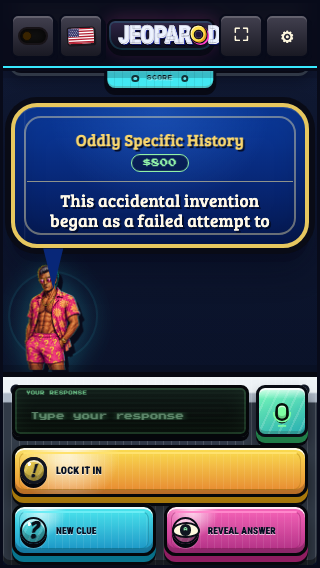
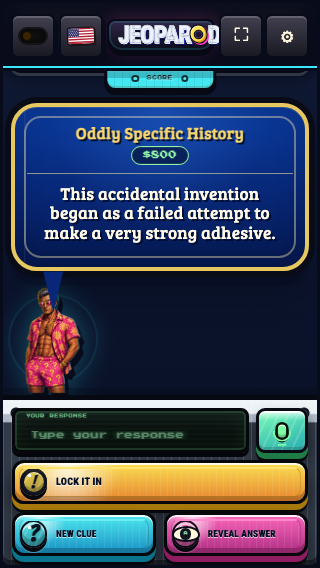
fix: keep short-screen clues and fullscreen notices clear of controls

diff --git a/styles/game/dialogue.css b/styles/game/dialogue.css
@@ -734,6 +734,11 @@ body .game-container .speech-bubble[data-dialogue-style="narration"] .clue-value
     body .game-container .speech-bubble[data-dialogue-style] .clue-value-amount {
         font-size: 0.52rem;
     }
+
+    body .game-container .deep-dive-trigger {
+        top: calc(100% + 0.8rem);
+        bottom: auto;
+    }
 }
 
 @media (orientation: landscape) and (max-height: 560px) {
@@ -748,7 +753,7 @@ body .game-container .speech-bubble[data-dialogue-style="narration"] .clue-value
         margin-right: auto;
         margin-left: 0;
         padding: 2.35rem 1rem 0.65rem;
-        overflow: hidden;
+        overflow: visible;
     }
 
     body .game-container .speech-bubble[data-dialogue-style] #questionBox {
@@ -764,6 +769,13 @@ body .game-container .speech-bubble[data-dialogue-style="narration"] .clue-value
         font-size: clamp(0.92rem, 2.8vw, 1.28rem);
         line-height: 1.08;
     }
+
+    body .game-container .deep-dive-trigger {
+        top: auto;
+        right: auto;
+        bottom: 0.65rem;
+        left: calc(100% + 0.8rem);
+    }
 }
 
 @media (min-width: 761px) and (max-width: 900px) and (min-height: 561px) {
@@ -777,7 +789,7 @@ body .game-container .speech-bubble[data-dialogue-style="narration"] .clue-value
 @media (max-height: 620px) {
     @container cabinet (max-width: 420px) {
         body .game-container .speech-bubble[data-dialogue-style] {
-            padding: 1.5rem 0.72rem 0.7rem;
+            padding: 0.8rem 0.72rem 0.4rem;
         }
 
         body .game-container .speech-bubble[data-dialogue-style] .clue-category {

diff --git a/index.html b/index.html
@@ -293,7 +293,6 @@
 
             <div class="game-container reveal" id="gameContainer" data-game-moment="loading" data-round-phase="idle">
                 <div class="scene-stage" id="sceneStage" aria-hidden="true"></div>
-                <p class="fullscreen-status" id="fullscreenStatus" role="status" aria-live="polite"></p>
                 <header class="header game-header">
                     <div class="title-div">
                         <div class="brand-mark game-mark" data-brand-mark aria-label="JeoPARODY"><span class="brand-base brand-base-before">JEOPAR</span><span class="brand-o" data-brand-o-display data-o-token="intruder"><span class="brand-o-core" aria-hidden="true"></span></span><span class="brand-base brand-base-after">DY</span><span class="brand-bang" aria-hidden="true">!</span></div>
@@ -403,6 +402,7 @@
                 </nav>
 
                 <div class="main-content">
+                    <p class="fullscreen-status" id="fullscreenStatus" role="status" aria-live="polite"></p>
                 <div class="speech-bubble" id="speechBubble" data-dialogue-style="clue-card">
                         <div class="translation-state" id="translationState" data-status="original" hidden>
                             <span class="translation-pulse" aria-hidden="true"></span>

diff --git a/game.html b/game.html
@@ -75,7 +75,6 @@
     <main class="game-page-shell" id="play" aria-label="JeoPARODY standalone game">
         <div class="game-container game-container-standalone" id="gameContainer" data-game-moment="loading" data-round-phase="idle">
             <div class="scene-stage" id="sceneStage" aria-hidden="true"></div>
-            <p class="fullscreen-status" id="fullscreenStatus" role="status" aria-live="polite"></p>
             <header class="header game-header">
                 <div class="title-div">
                     <div class="brand-mark game-mark" data-brand-mark aria-label="JeoPARODY">
@@ -187,6 +186,7 @@
             </nav>
 
             <div class="main-content">
+                <p class="fullscreen-status" id="fullscreenStatus" role="status" aria-live="polite"></p>
                 <div class="speech-bubble" id="speechBubble" data-dialogue-style="clue-card">
                     <div class="translation-state" id="translationState" data-status="original" hidden>
                         <span class="translation-pulse" aria-hidden="true"></span>

diff --git a/src/ui/fullscreen-controller.js b/src/ui/fullscreen-controller.js
@@ -18,7 +18,15 @@
       this.pending = false;
       this.restoreScroll = null;
       this.onToggle = () => this.toggle();
-      this.onFullscreenChange = () => this.sync();
+      this.onFullscreenChange = () => {
+        if (this.getNativeElement()) {
+          // Prefixed requests may return before the native change event arrives.
+          this.fallbackActive = false;
+          this.restoreScroll = null;
+          this.announce('');
+        }
+        this.sync();
+      };
       this.onKeydown = (event) => {
         if (event.key === 'Escape' && this.fallbackActive) this.exit();
       };
@@ -69,7 +77,7 @@
       this.fallbackActive = true;
       this.sync();
       this.window?.scrollTo?.(0, 0);
-      this.announce('Game expanded to fit the browser. This browser keeps its address bar visible. Use Exit expanded view to return.');
+      this.announce('Expanded view: this browser keeps its address bar visible.');
       return true;
     }
 

diff --git a/styles/game/cabinet.css b/styles/game/cabinet.css
@@ -95,9 +95,10 @@
         display: none;
         position: absolute;
         right: 0.8rem;
-        bottom: calc(var(--footer-height) + 0.8rem);
+        bottom: 0.6rem;
         z-index: 60;
         max-width: min(58%, 24rem);
+        margin: 0;
         padding: 0.6rem;
         border-radius: 8px;
         color: #fff8df;
@@ -209,6 +210,11 @@
 
         .game-container .main-content {
             padding: 0.35rem 0.65rem 0.2rem;
+        }
+
+        .game-container .fullscreen-status {
+            max-width: min(32%, 18rem);
+            font-size: 0.7rem;
         }
     }
 

diff --git a/styles/game/controls.css b/styles/game/controls.css
@@ -664,6 +664,18 @@
         .game-container .button-div .cabinet-button .button-tooltip { font-size: 0.59rem; }
     }
 
+    @media (max-height: 620px) and (orientation: portrait) {
+        @container cabinet (max-width: 420px) {
+            .game-container .control-footer {
+                min-height: 164px;
+            }
+
+            .game-container :is(.answer-input, .cabinet-button, .voice-button) {
+                min-height: 44px;
+            }
+        }
+    }
+
 }
 
 @media (prefers-reduced-motion: reduce) {

diff --git a/docs/reviews/MOBILE_REPAIR_2026-10-10.md b/docs/reviews/MOBILE_REPAIR_2026-10-10.md
@@ -34,7 +34,7 @@ interpret “two commits ahead” as safe integration or a complete history audi
   merge-base delta, nor the current two-tree delta. Its exact historical baseline
   is not supplied and cannot be authenticated from the summary.
 - **234 passing tests:** current untouched master has **280 passing tests**.
-  Repair branch has **286**, adding connector/fullscreen regression cases.
+  Repair branch has **287**, adding connector/fullscreen regression cases.
 - **699-line app / 1,027-line renderer:** describes the older docs branch, not
   current master: **723 / 1,213** before this repair. Line count is not a reason
   to undo later behavior.
@@ -74,6 +74,9 @@ Portrait layout reserves space for a 112–148px host; 320×568 uses 88px. Lands
 places the host beside the card, above the controls. On short phones, detailed
 translation and outcome-review panels temporarily use that space for content.
 The host does not cover clue text or answer controls.
+The shortest portrait layout keeps 44px control targets to leave room for the
+complete standard clue. Ask Host sits outside the clue text; landscape allows
+the connector to extend beyond the card instead of clipping it.
 
 Native fullscreen reproduced successfully in desktop Chromium and WebKit on
 the baseline. Unsupported/rejected element fullscreen uses a viewport-filling
@@ -82,6 +85,8 @@ including the embedded source cabinet, adds a visible limitation explanation,
 and uses “Expand game” / “Exit expanded view” labels. It handles capability flags,
 prefixed WebKit requests, ignored/rejected requests, rapid clicks, browser exit
 events, Escape, and restoration of the prior scroll position.
+The short expansion notice sits inside the scene, above the answer controls,
+and is checked against both clue and control bounds.
 
 Arbitrary-element fullscreen depends on browser capability and permission;
 JavaScript cannot promise to remove iPhone browser chrome. See the
@@ -107,7 +112,7 @@ Matching clue fixture, host artwork, viewport, and disabled animation:
 
 ## Verification
 
-- `npm run verify`: 286 unit tests, JavaScript syntax, convergence, CSS ownership,
+- `npm run verify`: 287 unit tests, JavaScript syntax, convergence, CSS ownership,
   assets, 12 host looks, questions, production build and artifact audit pass.
 - Production smoke: Chromium + WebKit, both built routes, emergency transport
   fallback, six non-repeating classic clues, and explicit episode mode pass.
@@ -120,7 +125,8 @@ Matching clue fixture, host artwork, viewport, and disabled animation:
 - Existing visual harness: 210 state captures with no geometry failures.
 - `npm run test:mobile`: 112 presentation states, seven viewports, both engines,
   four skins, both themes; checks minimum host size, clue/control overlap, cabinet
-  bounds, and rendered connector endpoint within 2px of the measured mouth.
+  bounds, complete standard-clue containment, unclipped tails, Ask Host placement,
+  and rendered connector endpoint within 2px of the measured mouth.
   Native browser exit and missing/rejected fullscreen are checked separately,
   including portrait, landscape, and desktop expansion and both toggle buttons.
 - The new mobile gate is in `verify:release` and PR CI. Evidence is uploaded on
@@ -128,9 +134,10 @@ Matching clue fixture, host artwork, viewport, and disabled animation:
 
 ## Rollback and next improvements
 
-Use the focused repair commit as the reversible unit. If its presentation causes
-an unforeseen regression, revert that commit in a new branch/PR; keep the audit
-and subsequent unrelated work. Reverting `379ba9d` wholesale would also remove
+Use the focused runtime repair commits as the reversible unit. If their
+presentation causes an unforeseen regression, revert those code commits newest
+first in a new branch/PR; retain the audit and subsequent unrelated work.
+The separate audit commit is `5989d99`. Reverting `379ba9d` wholesale would also remove
 classic random play and good controls, so it is not recommended. A deployment
 or merge requires separate approval.
 
